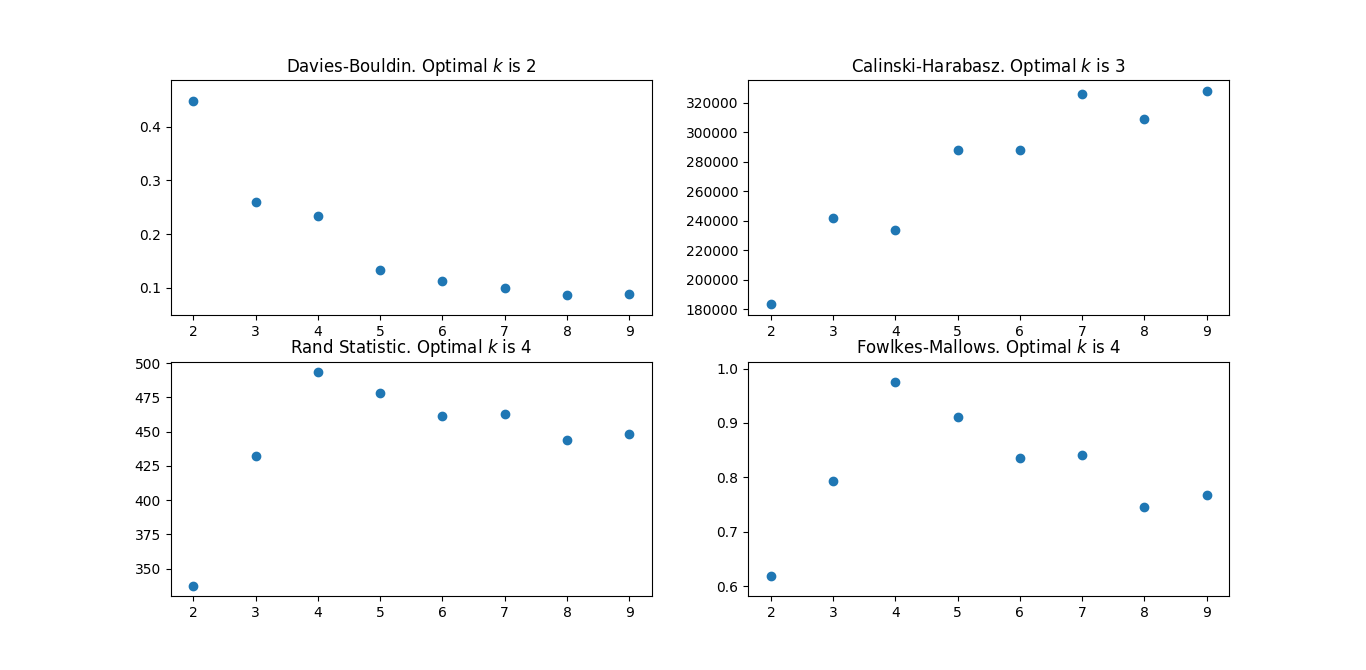
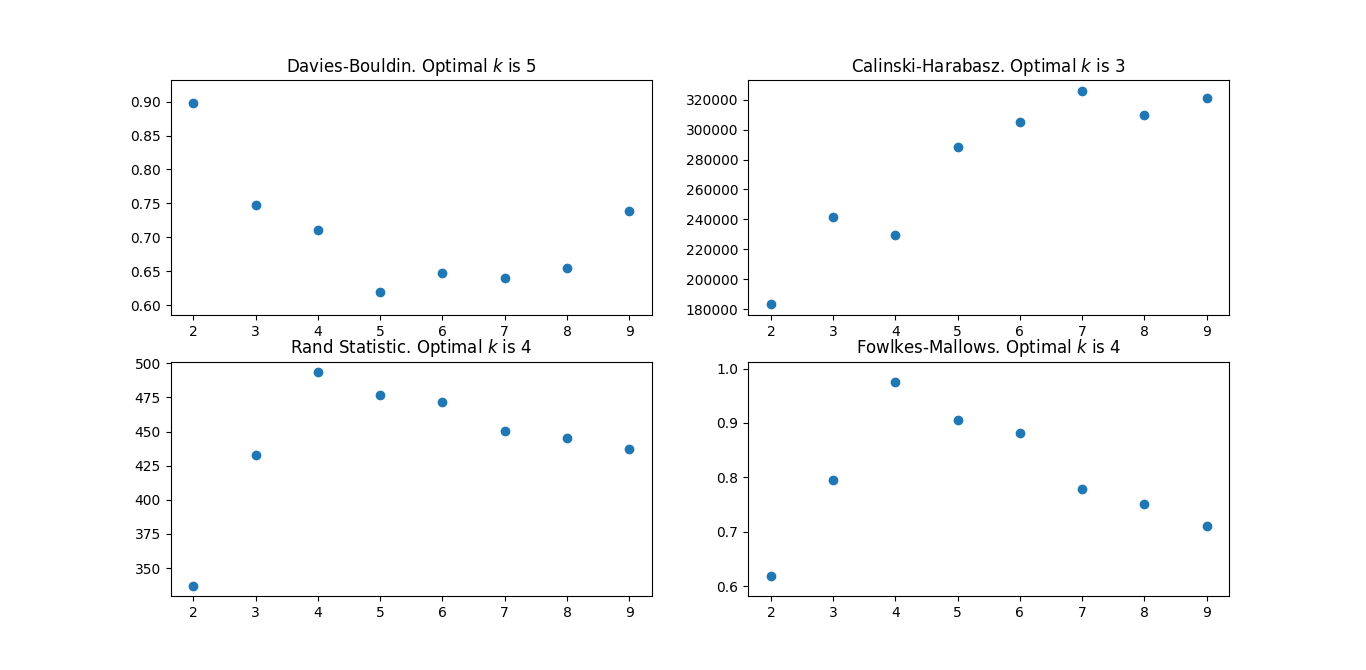
Fix Davies-Bouldin Index

diff --git a/validation/validation.py b/validation/validation.py
@@ -12,14 +12,17 @@ def DaviesBouldin(X, centroids, clusters):
     n_cluster = len(centroids)
     cluster_k = [X[clusters == k] for k in range(n_cluster)]
     variances = [np.mean([np.linalg.norm(p - centroids[i]) for p in k]) for i, k in enumerate(cluster_k)]
-    db = []
+    db = np.empty(shape=(n_cluster, n_cluster))
 
     for i in range(n_cluster):
         for j in range(n_cluster):
             if i != j:
-                db.append((variances[i] + variances[j]) / np.linalg.norm(centroids[i] - centroids[j]))
+                db[i][j] = (variances[i] + variances[j]) / np.linalg.norm(centroids[i] - centroids[j])
 
-    return np.max(db) / n_cluster
+    for i in range(n_cluster):
+        db[i][i] = -1
+
+    return np.sum(np.max(db, axis=1)) / n_cluster
 
 
 def CHIndex(X, centroids, clusters):
@@ -44,7 +47,7 @@ def inner_criterias(X, k_range, iterations=200):
 
     ch_list = list(CH.items())
 
-    db_best = max(DB, key=DB.get)
+    db_best = min(DB, key=DB.get)
     ch_best = 0
     delta = sys.maxsize
     for k in range(1, len(CH) - 1):
@@ -87,6 +90,7 @@ def outer_criterias(X, k_range, reference, iterations=200):
     best_fm = max(FM, key=FM.get)
 
     return RS, best_rs, FM, best_fm
+
 
 if __name__ == '__main__':
     data_dir = 'data'
